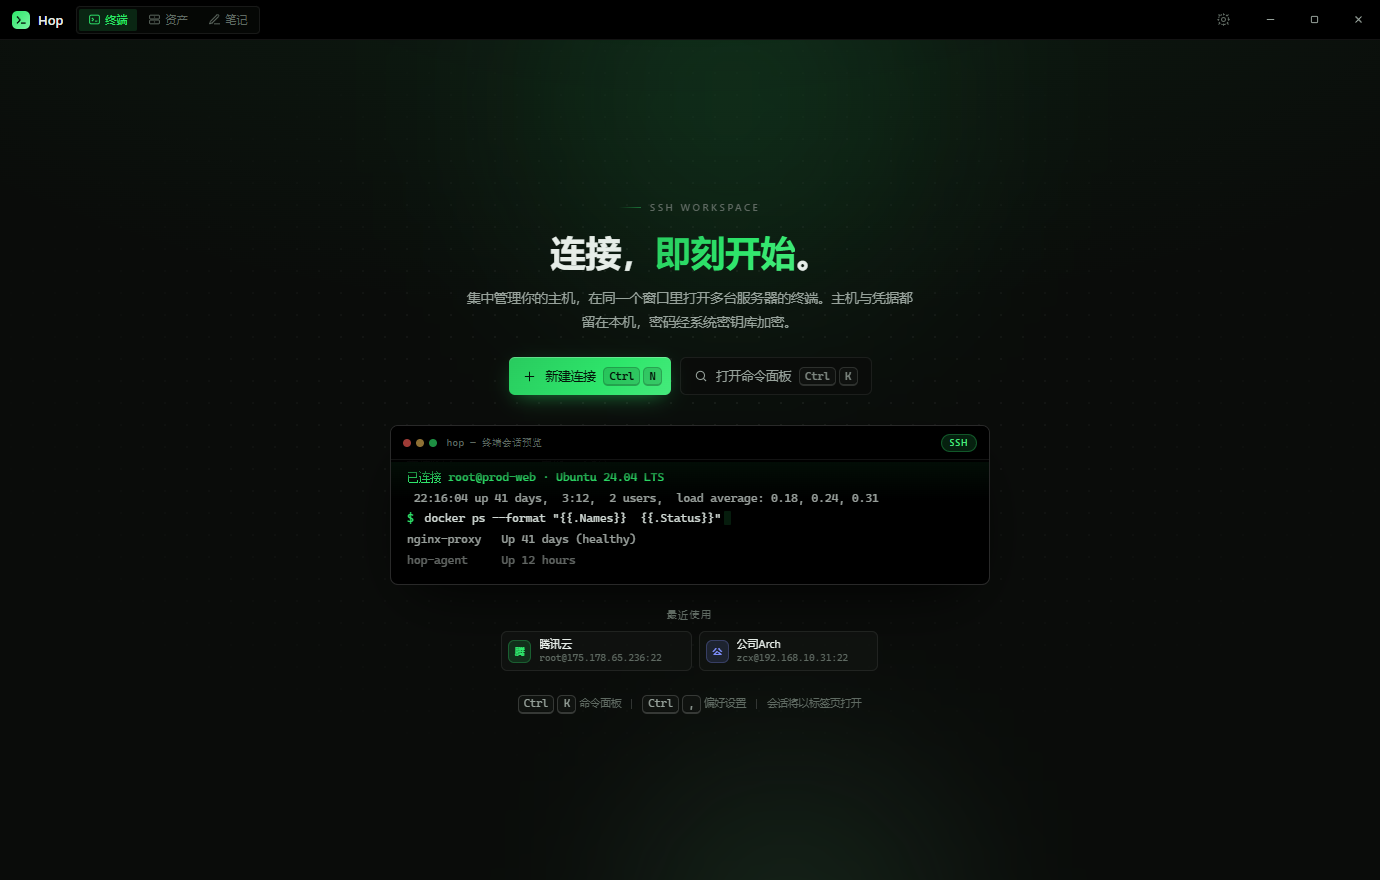
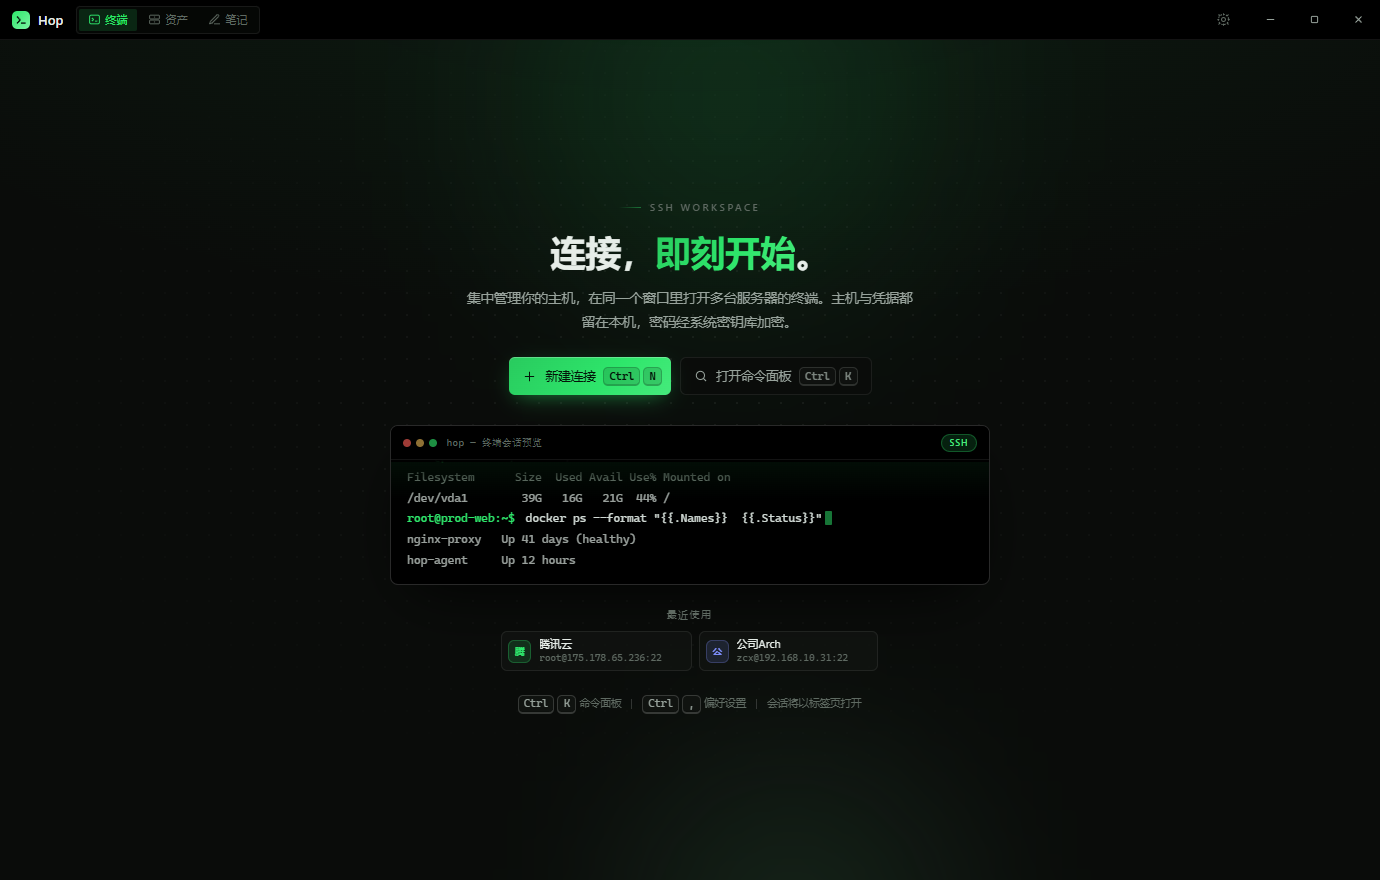
fix(welcome): 演示终端改用真实会话命令，去掉不存在的 hop connect
- 提示符改为 root@prod-web:~$，表明这是已连上的远端会话
- 三幕换成 uptime / df -h / / docker ps，输出按真实格式写
- 回滚区保留命令行本身，输出不再悬空；卡片高度固定 160px 不抖动

Changed region(s): [[0.2804, 0.5216, 0.6232, 0.6443]]

diff --git a/src/components/Welcome.tsx b/src/components/Welcome.tsx
@@ -13,6 +13,8 @@ type Tone = 'dim' | 'ok' | 'mono';
 interface ScriptLine {
   text: string;
   tone: Tone;
+  /** 历史里的命令行：渲染成「提示符 + 命令」 */
+  isCommand?: boolean;
 }
 
 interface Scene {
@@ -24,18 +26,21 @@ interface Scene {
  * 欢迎页中间的「活终端」：自己敲命令、自己出结果，停一会儿再换下一幕。
  * 用 setTimeout 逐字推进；prefers-reduced-motion 时停在最终帧。
  */
+/** 已经连上的那台机器：提示符直接写成远端会话的样子 */
+const PROMPT = 'root@prod-web:~$';
+
 const SCENES: Scene[] = [
-  {
-    command: 'hop connect prod-web',
-    lines: [
-      { text: '正在协商 ssh-ed25519 密钥 … 完成', tone: 'dim' },
-      { text: '已连接 root@prod-web · Ubuntu 24.04 LTS', tone: 'ok' },
-    ],
-  },
   {
     command: 'uptime',
     lines: [
-      { text: ' 22:16:04 up 41 days,  3:12,  2 users,  load average: 0.18, 0.24, 0.31', tone: 'mono' },
+      { text: ' 01:12:04 up 41 days,  3:12,  2 users,  load average: 0.18, 0.24, 0.31', tone: 'mono' },
+    ],
+  },
+  {
+    command: 'df -h /',
+    lines: [
+      { text: 'Filesystem      Size  Used Avail Use% Mounted on', tone: 'dim' },
+      { text: '/dev/vda1        39G   16G   21G  44% /', tone: 'mono' },
     ],
   },
   {
@@ -93,14 +98,13 @@ function LiveTerminal() {
         }
         timer = window.setTimeout(() => {
           if (cancelled) return;
-          const last = sceneIndex % SCENES.length === SCENES.length - 1;
-          if (!last) {
-            setHistory((prev) =>
-              [...prev, ...scene.lines.map((line, index) => ({ id: `${sceneIndex}-${index}`, line }))].slice(-3),
-            );
-          } else {
-            setHistory([]);
-          }
+          setHistory((prev) =>
+            [
+              ...prev,
+              { id: `${sceneIndex}-cmd`, line: { text: scene.command, tone: 'mono' as Tone, isCommand: true } },
+              ...scene.lines.map((line, index) => ({ id: `${sceneIndex}-${index}`, line })),
+            ].slice(-4),
+          );
           setLines([]);
           setTyped('');
           setSceneIndex((value) => value + 1);
@@ -140,13 +144,19 @@ function LiveTerminal() {
         <span className="welcome__preview-badge">SSH</span>
       </header>
       <div className="welcome__preview-body mono" aria-hidden="true">
-        {visibleHistory.map((item) => (
-          <p key={item.id} className={`welcome__line welcome__line--${item.line.tone}`}>
-            {item.line.text}
-          </p>
-        ))}
+        {visibleHistory.map((item) =>
+          item.line.isCommand ? (
+            <p key={item.id} className="welcome__line welcome__line--prompt">
+              <span className="welcome__prompt">{PROMPT}</span> {item.line.text}
+            </p>
+          ) : (
+            <p key={item.id} className={`welcome__line welcome__line--${item.line.tone}`}>
+              {item.line.text}
+            </p>
+          ),
+        )}
         <p className="welcome__line welcome__line--prompt">
-          <span className="welcome__prompt">$</span> {visibleCommand}
+          <span className="welcome__prompt">{PROMPT}</span> {visibleCommand}
           {!reduced && <span className="welcome__caret welcome__caret--inline" />}
         </p>
         {visibleLines.map((line, index) => (
@@ -159,7 +169,7 @@ function LiveTerminal() {
         ))}
         {reduced && (
           <p className="welcome__line welcome__line--prompt welcome__caret-line">
-            <span className="welcome__prompt">$</span>
+            <span className="welcome__prompt">{PROMPT}</span>
             <span className="welcome__caret" />
           </p>
         )}

diff --git a/README.md b/README.md
@@ -248,7 +248,7 @@ build/                    # 图标：icon.svg · icon.png · icon.ico · icons/
 - **无边框窗口**：`frame: false` + 自绘 40px 标题栏，`-webkit-app-region: drag` 拖动、双击最大化，窗口控制走 IPC（`hop:window:*`）。
 - **终端尺寸自适应**：FitAddon 量的是单元格容器的内容盒，外层 padding 单独承载留白，避免「最后一行压到底栏」。
 - **右侧常驻栏**：`grid-template-columns: minmax(0, 1fr) auto`，宽度写入设置（280–620 px，双击分隔条复位 372），窄窗口（<1180 px）自动变成悬浮抽屉。
-- **欢迎页的活终端**：空态中间不是静态截图，而是一台自己敲命令、自己出结果的终端（3 幕循环），旧输出向上滚出卡片；系统设置「减少动态效果」时停在最终帧。
+- **欢迎页的活终端**：空态中间不是静态截图，而是一台已经连上的终端在敲 `uptime` / `df -h /` / `docker ps`（3 幕循环），旧输出向上滚出卡片；系统设置「减少动态效果」时停在最终帧。
 - **有节制的动效**：180 ms 主节奏、`cubic-bezier(0.16, 1, 0.3, 1)`；尊重 `prefers-reduced-motion`。
 - **响应式**：资产表格在 1120 px 以下隐藏认证/上次连接列，860 px 以下只留主机与操作、按钮收成纯图标；终端两侧栏 <1180 px 时改为悬浮抽屉；<640 px 收紧标签高度。
 - **可访问性**：语义化标签 + `role="tablist"` 键盘左右切换、对话框焦点陷阱与 `aria-modal`、可见焦点环、`aria-live` 通知、图标按钮均带 `aria-label`。

diff --git a/CHANGELOG.md b/CHANGELOG.md
@@ -7,7 +7,7 @@
 
 ### 改进
 
-- **欢迎页改成「活终端」**：中间那块终端会自己敲命令（`hop connect` → `uptime` → `docker ps`）、逐行吐出结果、停一下再换下一幕，
+- **欢迎页改成「活终端」**：中间那块终端是一个**已经连上的会话**（提示符 `root@prod-web:~$`），自己敲 `uptime` → `df -h /` → `docker ps`、逐行吐出结果、停一下再换下一幕，
   旧输出会像真终端一样向上滚出；系统开启「减少动态效果」时直接停在最终帧。
 - 背景两团强调色光晕改为 26s / 34s 的缓慢漂移，静态版面有了呼吸感。
 
